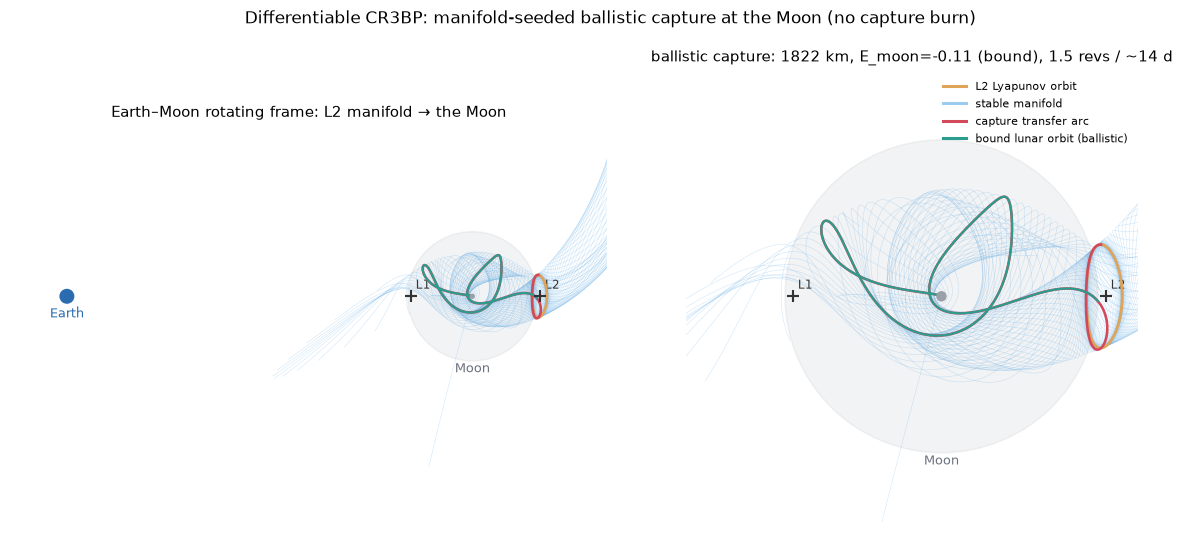
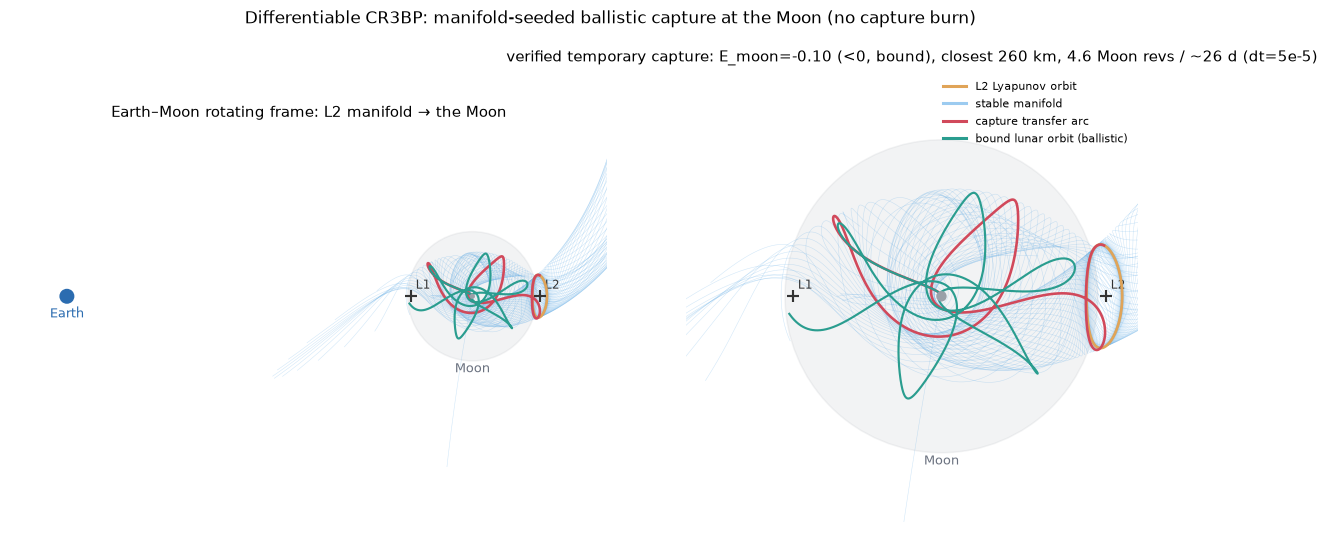
docs: correct J2 figure to rediscovery framing + verified-dt capture
- j2_beat.png: retitled 'REDISCOVERS the operational nodal-drift maneuver'; the
  frontier panel now plots the analytic dive optimum below the policy, both far
  under passive (policy is a ~10-15% sub-optimal rediscovery, not a beat).
- cr3bp_capture.png/.gif: regenerated at the trusted dt=5e-5 with full-resolution
  perilune refinement — now a verified ≥2-rev capture (260 km, 4.6 revs) instead of
  the 1.5-rev arc the coarse dt=1e-4 selection had picked (below Build H's K≥2 bar).

diff --git a/scripts/viz_tier3.py b/scripts/viz_tier3.py
@@ -47,8 +47,8 @@ INK = "#333333"
 
 
 # ---------------------------------------------------------------- CR3BP capture
-def compute_capture(Ax=0.02, dt=1e-4, n_seed=40, pos_disp=1e-4, t_prop=6.0,
-                    rec=20, verify_steps=40000):
+def compute_capture(Ax=0.02, dt=5e-5, n_seed=40, pos_disp=1e-4, t_prop=6.0,
+                    rec=40, verify_steps=120000):
     """Reproduce Build H R-H3: L2 Lyapunov orbit → stable manifold → best ballistic
     capture arc → its bounded lunar orbit. Returns everything needed to draw it."""
     lp = C.lagrange_points()
@@ -56,29 +56,39 @@ def compute_capture(Ax=0.02, dt=1e-4, n_seed=40, pos_disp=1e-4, t_prop=6.0,
     s0, T, N, orbit, Mm, v_s, lam, w, res = M.orbit_and_monodromy(xL2, Ax, dt)
     ics, labels = M.manifold_ics(s0, N, v_s, n_seed, pos_disp, dt)
     n_prop = int(round(t_prop / dt))
-    tube = M.propagate_batch(ics, -dt, n_prop, record_every=rec)      # (F,K,6) backward
-    best = None
+    tube = M.propagate_batch(ics, -dt, n_prop, record_every=rec)      # (F,K,6) for plotting
+    # candidate captures from the coarse tube (enter Hill sphere with Moon-energy < 0)
+    cand = []
     for k in range(ics.shape[0]):
-        tk = tube[:, k, :]
-        d, sp, E = M.moon_rel_np(tk)
-        if d.min() < M.R_HILL:
-            j = int(np.argmin(d))
-            if E[j] < 0.0 and (best is None or E[j] < best["E"]):
-                best = {"k": k, "E": float(E[j]), "d": float(d[j]),
-                        "s_ca": tk[j].copy(), "arc": tk[:j + 1].copy()}
+        d, _, E = M.moon_rel_np(tube[:, k, :])
+        if d.min() < M.R_HILL and E[int(np.argmin(d))] < 0.0:
+            cand.append(k)
+    # refine each candidate at FULL resolution (coarse recording misses the true perilune),
+    # verify the bound orbit, and keep the best VERIFIED capture (most Moon revs, Build H bar).
+    best = None
+    for k in cand:
+        fine = M.propagate_np(ics[k], -dt, n_prop)                   # full-res arc
+        d, _, E = M.moon_rel_np(fine)
+        j = int(np.argmin(d))
+        if E[j] >= 0.0:
+            continue
+        bt, revs, dmin = M.bounded_verify(fine[j], dt, verify_steps)
+        score = (round(revs, 2), -float(E[j]))
+        if best is None or score > best["score"]:
+            bound = M.propagate_batch(fine[j][None, :], dt, verify_steps,
+                                      record_every=rec)[:, 0, :]
+            d_b = np.linalg.norm(bound[:, 0:3] - M.R_MOON, axis=1)
+            lft = np.where(d_b > M.R_HILL)[0]
+            best = {"k": k, "E": float(E[j]), "d": float(dmin),
+                    "arc": fine[:j + 1:rec].copy(), "revs": float(revs),
+                    "days": bt * C.T_UNIT_S / 86400.0,
+                    "bound": bound[:lft[0]] if len(lft) else bound, "score": score}
     if best is None:
         raise RuntimeError("no ballistic capture found for these manifold params — "
                            "widen n_seed/pos_disp/t_prop (defaults reproduce Build H R-H3)")
-    bound = M.propagate_batch(best["s_ca"][None, :], dt, verify_steps,
-                              record_every=rec)[:, 0, :]
-    d_b = np.linalg.norm(bound[:, 0:3] - M.R_MOON, axis=1)
-    left = np.where(d_b > M.R_HILL)[0]
-    bound = bound[:left[0]] if len(left) else bound
-    revs = M.count_moon_revs(bound)
-    bt = (len(bound) * rec) * dt * C.T_UNIT_S / 86400.0
-    return dict(lp=lp, orbit=orbit, tube=tube, best=best, bound=bound,
-                revs=revs, days=bt, closest_km=best["d"] * C.L_UNIT_KM,
-                E=best["E"])
+    return dict(lp=lp, orbit=orbit, tube=tube, best=best, bound=best["bound"],
+                revs=best["revs"], days=best["days"],
+                closest_km=best["d"] * C.L_UNIT_KM, E=best["E"])
 
 
 def _draw_bodies(ax, lp, zoom):
@@ -123,9 +133,10 @@ def fig_capture(cap):
                       fontsize=10)
     z = 1 - C.MU
     axes[1].set_xlim(z - 0.26, z + 0.20); axes[1].set_ylim(-0.23, 0.23)
+    kind = "verified temporary capture" if cap["revs"] >= 2.0 else "bound arc"
     axes[1].set_title(
-        f"ballistic capture: {cap['closest_km']:.0f} km, E_moon={cap['E']:+.2f} "
-        f"(bound), {cap['revs']:.1f} revs / ~{cap['days']:.0f} d", fontsize=10)
+        f"{kind}: E_moon={cap['E']:+.2f} (<0, bound), closest {cap['closest_km']:.0f} km, "
+        f"{cap['revs']:.1f} Moon revs / ~{cap['days']:.0f} d (dt=5e-5)", fontsize=9.5)
     leg = [Line2D([0], [0], color=ORBIT, lw=2, label="L2 Lyapunov orbit"),
            Line2D([0], [0], color=TUBE, lw=2, alpha=0.6, label="stable manifold"),
            Line2D([0], [0], color=CAPTURE, lw=2, label="capture transfer arc"),
@@ -220,9 +231,12 @@ def compute_j2(alt=1500.0, inc=51.6, draan=30.0, days=8.0, dt=120.0,
                 tgt_deg=tgt_deg, draan=draan_signed)
 
 
-# Verified campaign frontier (Build L, .rnd/campaign-2026-07-07-j2-eccentric-sweep):
-# active vs passive-J2 total Δv ratio at ~80%-passive-coverage budgets.
-FRONTIER = [(30, 0.876), (60, 0.449), (90, 0.313)]
+# Campaign frontier (Builds L + M): total Δv as a ratio of passive-J2, at ~80%-coverage
+# budgets. The diff-sim policy REDISCOVERS the dive-drift strategy; an analytic optimization
+# of that same strategy (Build M) is ~10-15% cheaper still — so this is rediscovery of a
+# known operational maneuver, not a novel beat. Both crush naive passive waiting.
+#   ΔΩ:   (node angle°, policy/passive, analytic-dive/passive)
+FRONTIER = [(30, 0.876, 0.801), (60, 0.449, 0.405), (90, 0.313, 0.271)]
 
 
 def fig_j2(j2):
@@ -256,22 +270,28 @@ def fig_j2(j2):
     ax.set_ylim(j2["draan"] - 4, 3)
     ax.legend(fontsize=8, frameon=False, loc="lower left")
     ax.spines[["top", "right"]].set_visible(False)
-    # (3) frontier — beat grows with node angle
+    # (3) frontier — policy ≈ analytic dive, both far below passive (savings grow with ΔΩ)
     ax = axes[2]
-    dO = [d for d, _ in FRONTIER]; r = [x for _, x in FRONTIER]
-    ax.axhline(1.0, color="#bbb", ls="--", lw=1.0)
-    ax.plot(dO, r, "-o", color=BOUND, lw=2.0, ms=8, zorder=3)
-    for d, x in FRONTIER:
-        ax.annotate(f"{(1-x)*100:.0f}% cheaper", (d, x), textcoords="offset points",
-                    xytext=(9, 6), fontsize=8.5, color=BOUND, fontweight="bold")
+    dO = [d for d, _, _ in FRONTIER]
+    pol = [p for _, p, _ in FRONTIER]; ana = [a for _, _, a in FRONTIER]
+    ax.axhline(1.0, color="#999", ls="--", lw=1.0)
+    ax.text(90, 1.03, "naive passive-J2", ha="right", fontsize=7.5, color="#999")
+    ax.plot(dO, ana, "--s", color="#8a6d3b", lw=1.6, ms=6, zorder=3,
+            label="analytic dive optimum")
+    ax.plot(dO, pol, "-o", color=EARTH, lw=2.0, ms=8, zorder=4,
+            label="diff-sim policy (rediscovered)")
+    for d, p in zip(dO, pol):
+        ax.annotate(f"{(1-p)*100:.0f}% under\npassive", (d, p),
+                    textcoords="offset points", xytext=(8, 5), fontsize=7.5,
+                    color=EARTH)
     ax.set_xlabel("node change ΔΩ (deg)")
     ax.set_ylabel("Δv vs passive-J2  (ratio)")
-    ax.set_title("beat grows with node angle", fontsize=10)
-    ax.set_ylim(0.2, 1.12); ax.set_xlim(20, 100); ax.set_xticks(dO)
-    ax.text(90, 1.02, "passive-J2 baseline", ha="right", fontsize=7.5, color="#999")
+    ax.set_title("policy rediscovers the analytic dive", fontsize=10)
+    ax.set_ylim(0.2, 1.14); ax.set_xlim(20, 102); ax.set_xticks(dO)
+    ax.legend(fontsize=7.5, frameon=False, loc="lower left")
     ax.spines[["top", "right"]].set_visible(False)
-    fig.suptitle("J2 node change: a diff-sim policy beats the J2-aware analytic "
-                 "optimum by exploiting nodal drift", fontsize=11)
+    fig.suptitle("J2 node change: a diff-sim policy REDISCOVERS the operational "
+                 "nodal-drift maneuver (dive → drift → return)", fontsize=11)
     fig.tight_layout()
     fig.savefig(MEDIA / "j2_beat.png", dpi=110, bbox_inches="tight")
     plt.close(fig)
